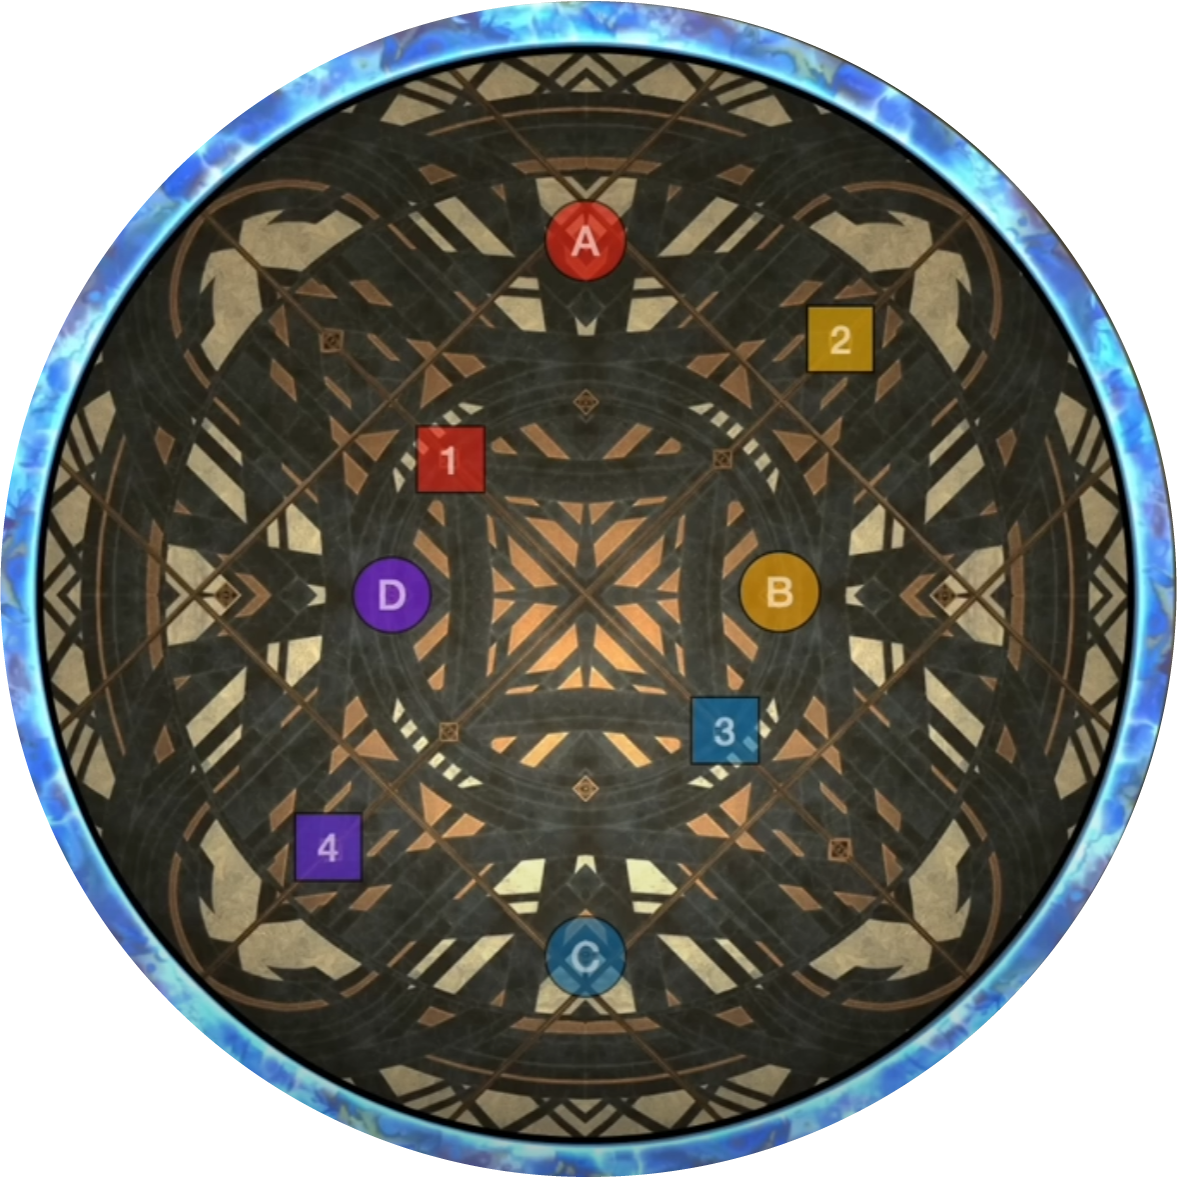
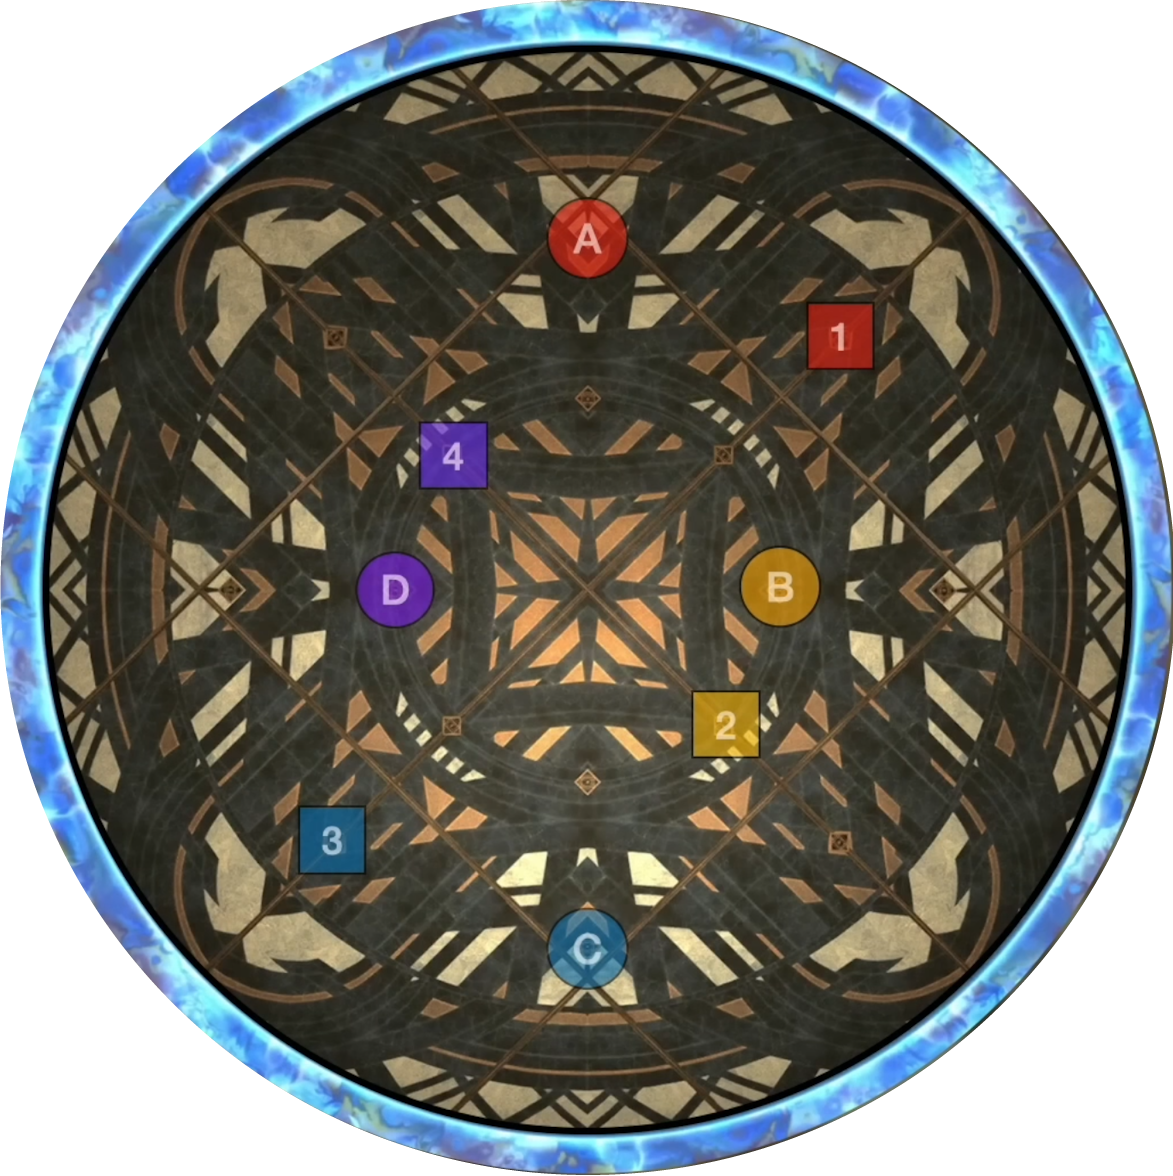
fixups

Changed region(s): [[0.0, 0.0, 1.0, 1.0], [0.5831, 0.1531, 0.6445, 0.2143], [0.798, 0.3673, 0.8593, 0.398]]

diff --git a/src/App.tsx b/src/App.tsx
@@ -9,6 +9,7 @@ import "@fontsource/roboto/400.css";
 import "@fontsource/roboto/500.css";
 import "@fontsource/roboto/700.css";
 import {
+  Button,
   CssBaseline,
   FormControl,
   MenuItem,
@@ -82,7 +83,7 @@ const Marker1: Position = [839, 340];
 const MarkerB: Position = [780, 590];
 const Marker2: Position = [725, 730];
 const MarkerC: Position = [585, 959];
-const Marker3: Position = [327, 547];
+const Marker3: Position = [327, 845];
 const MarkerD: Position = [390, 590];
 const Marker4: Position = [450, 460];
 
@@ -165,7 +166,7 @@ const move = (gameState: GameState, position: Position): GameState => {
 const reducer = (gameState: GameState, action: Action): GameState => {
   switch (action.type) {
     case "RESET":
-      return defaultState;
+      return { ...defaultState, role: gameState.role };
     case "MOVE":
       return move(gameState, action.target);
     case "SELECTROLE":
@@ -201,6 +202,12 @@ function App() {
             <MenuItem value={"Tank"}>Tank</MenuItem>
             <MenuItem value={"DPS"}>DPS</MenuItem>
           </Select>
+          <Button
+            onClick={() => dispatch({ type: "RESET" })}
+            variant="contained"
+          >
+            Reset
+          </Button>
         </FormControl>
         <div
           style={{
